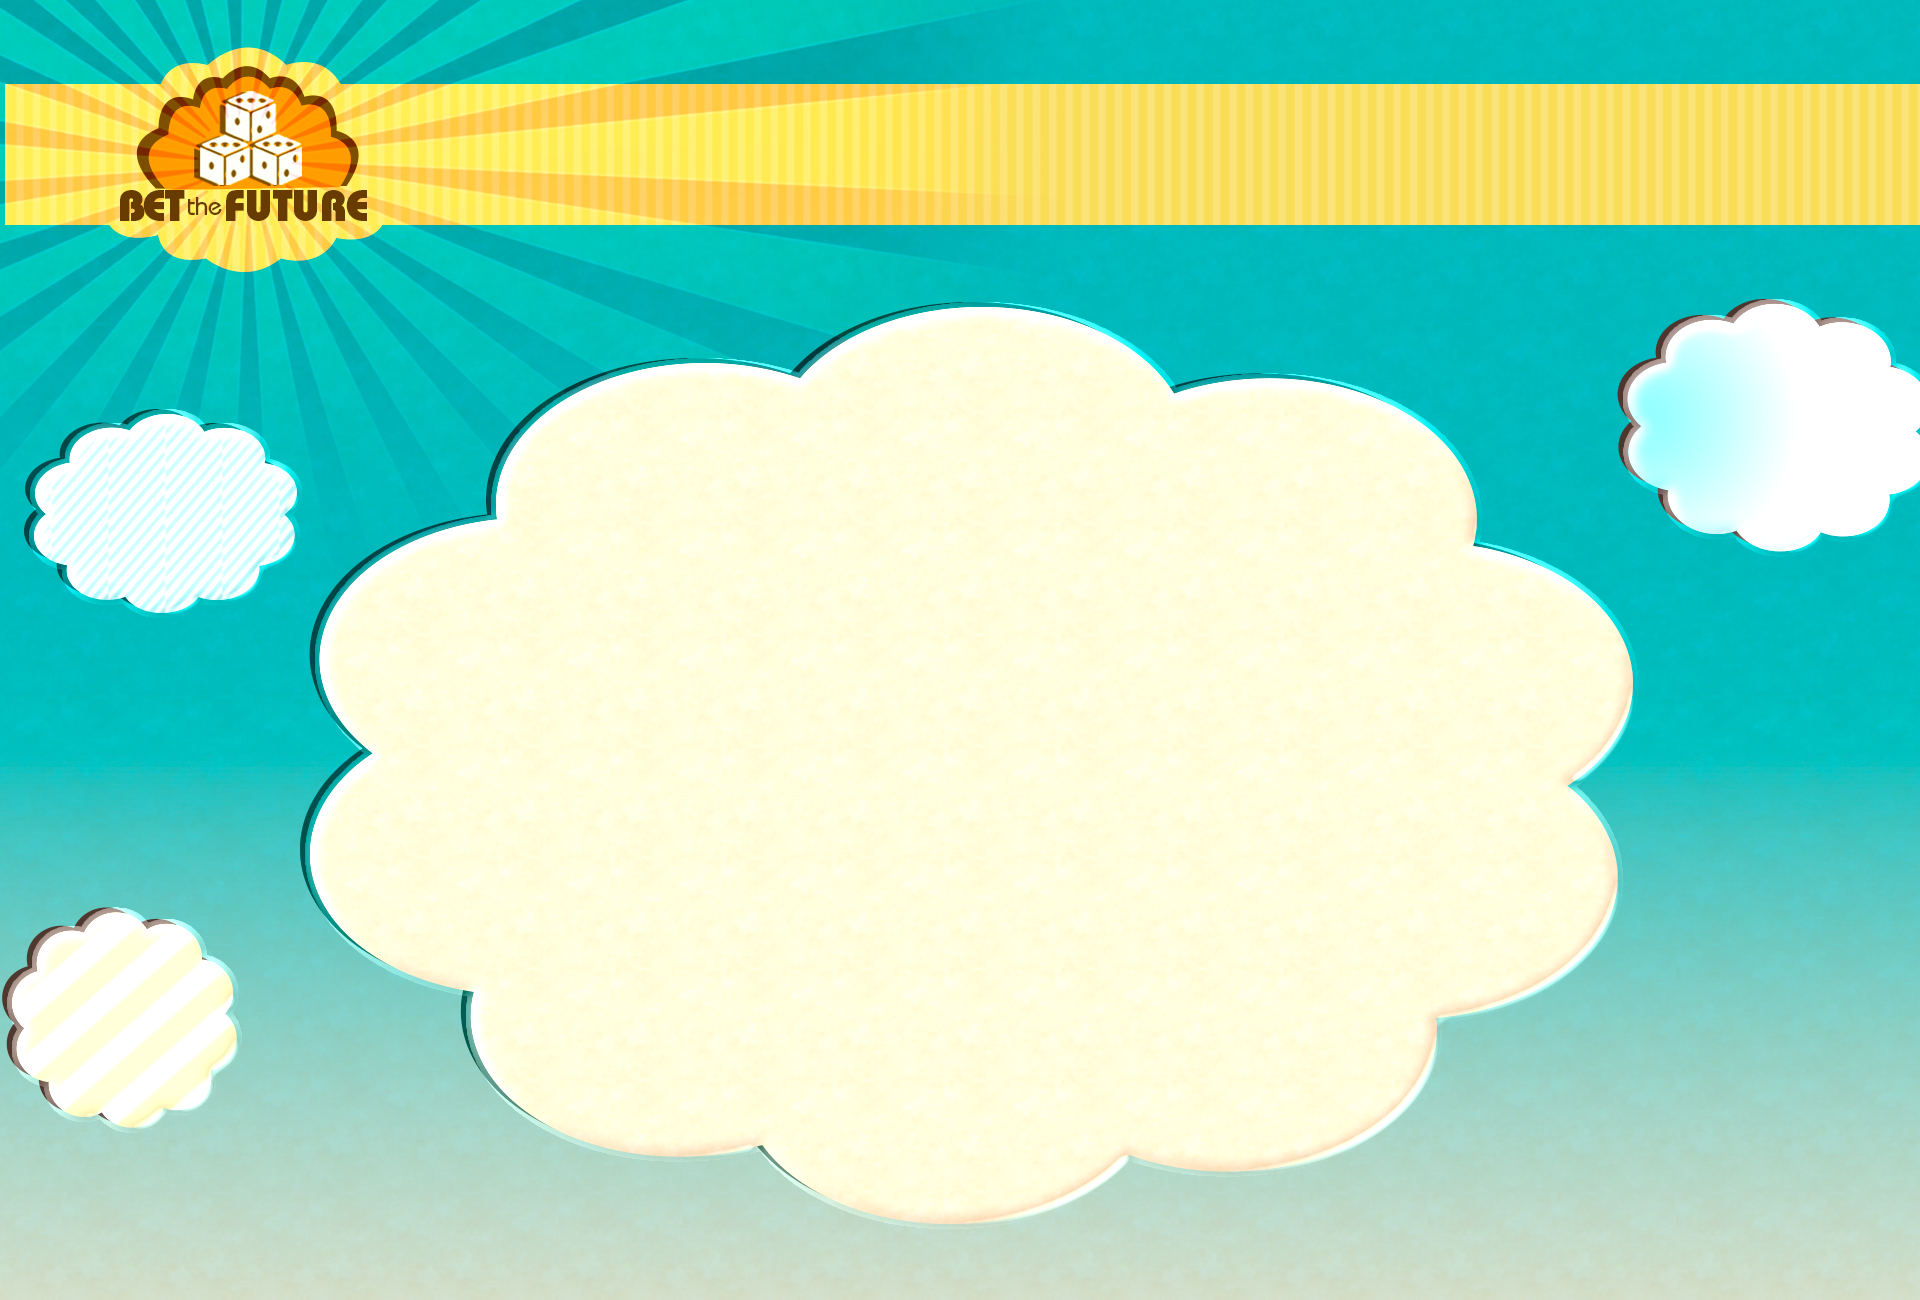
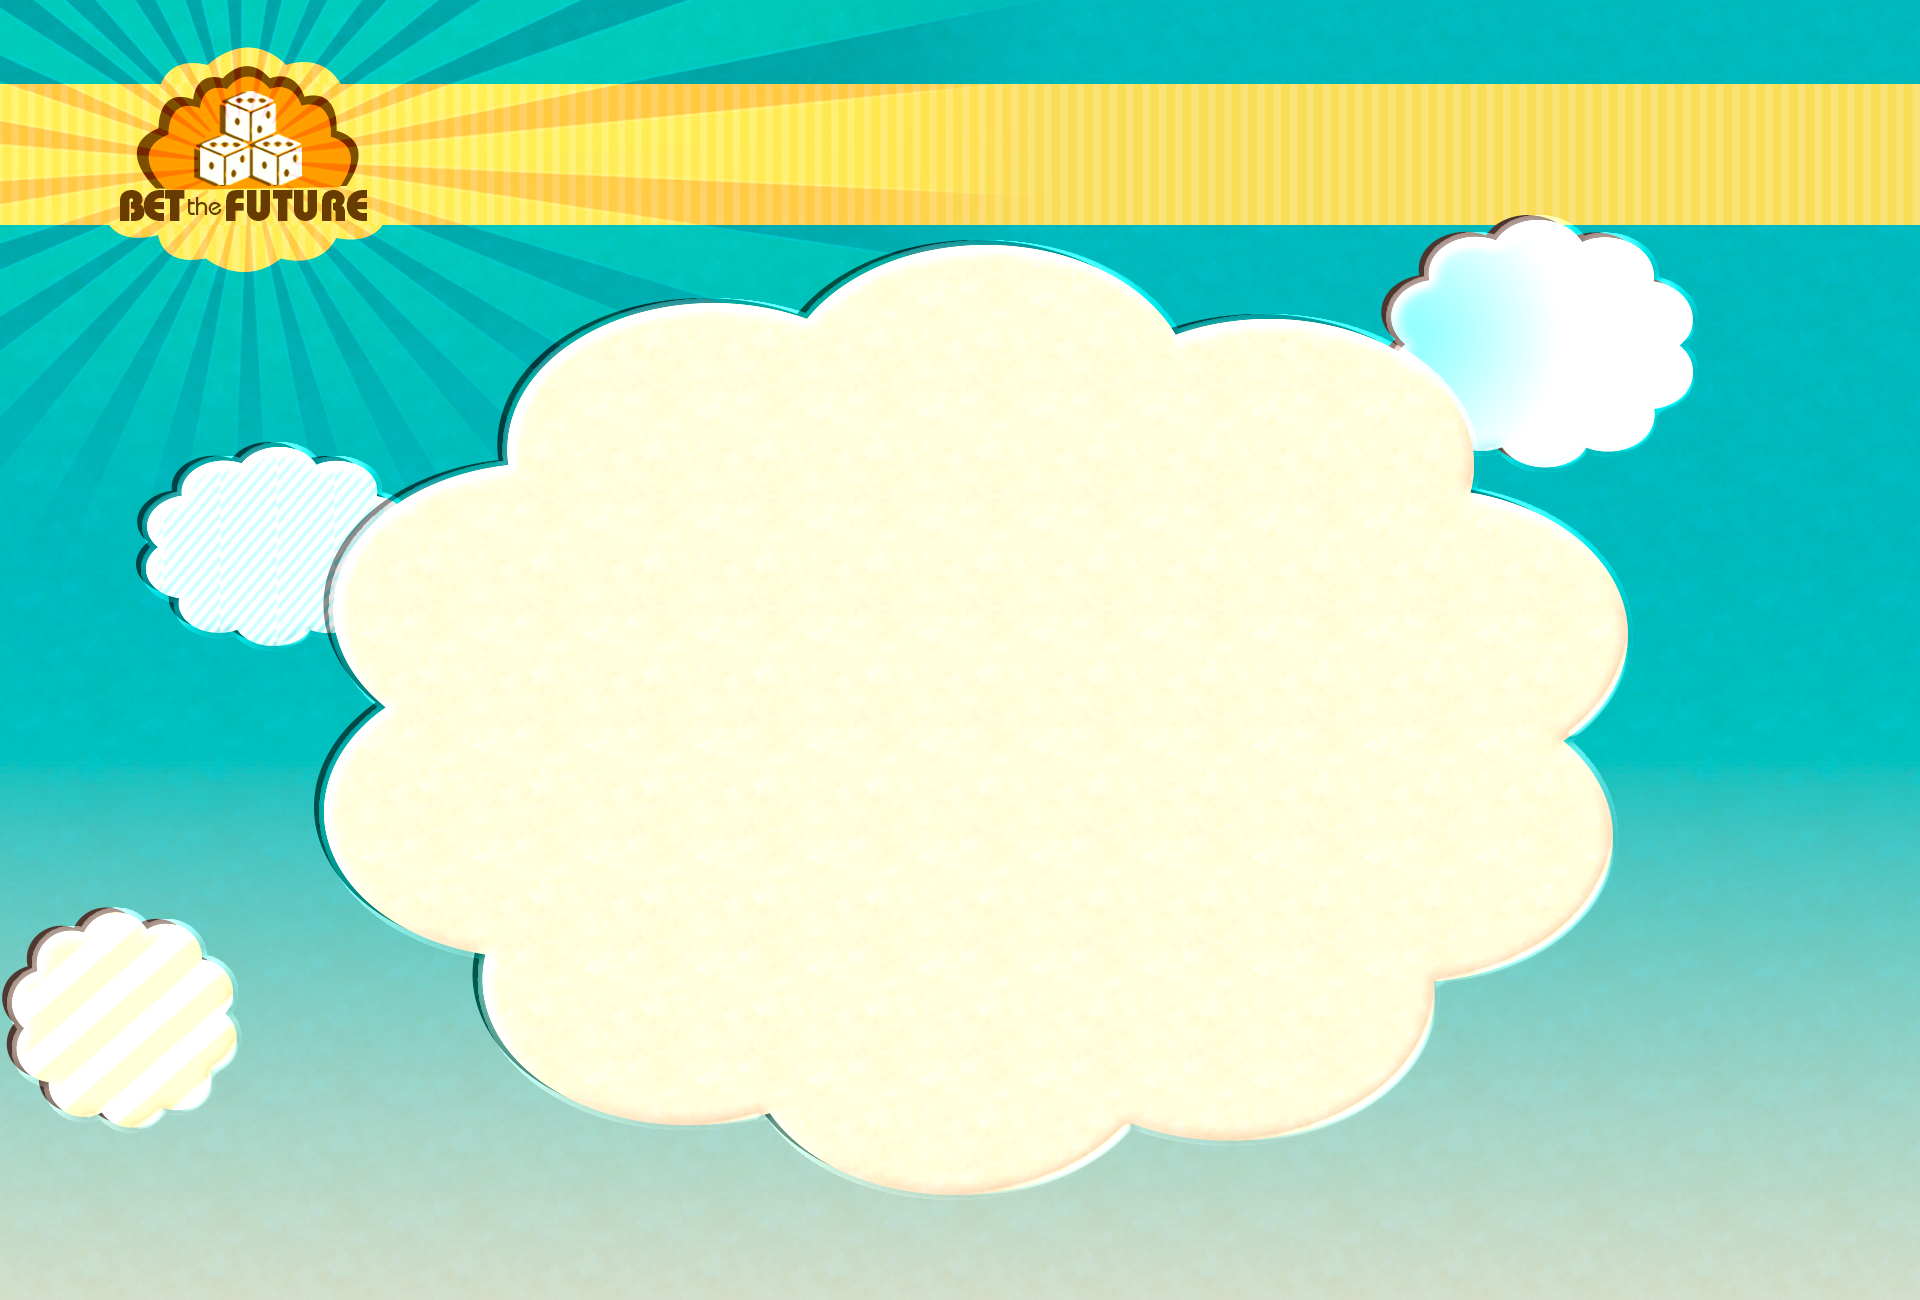
home page

Changed region(s): [[0.0, 0.0615, 1.0, 0.9538]]

diff --git a/public/assets/css/homeStyle.css b/public/assets/css/homeStyle.css
@@ -1,0 +1,59 @@
+html {
+	height: 100%;
+	background: url('home_background.png') no-repeat;
+	background-size: cover;
+}
+body{
+	background-color: transparent;
+}
+
+
+
+.cloudDiv{
+	background-image: url("../images/cloud.png");
+	background-position: -100% 0%;
+	background-size: contain;
+	background-repeat: no-repeat;
+	position: absolute;
+	transform: translateY(-50%);
+	top:60%;
+	width: 800px;
+	height: 600px;
+}
+form{
+	margin-top: 35px;
+
+}
+input{
+	border: 2px solid;
+    border-radius: 15px;
+    padding: 25px;
+}
+.form-control {
+	padding-top:  23px;
+	padding-bottom: 23px;
+	background-color: #ffcb42;
+	color: white;
+	font-size: 18px;
+	border: 2px solid #00bbba;
+	border-radius: 11px;
+
+}
+h1{
+	font-family: 'Fascinate Inline', cursive;
+	color: #683b00;
+	letter-spacing: -1px;
+	text-align: center;
+}
+label{
+	font-size: 17px;
+	color: #00bbba;
+	font-weight: bold;
+}
+.btn-default {
+    color: white;
+    background-color: #00babf;
+    border-color: #04a3a3;
+}
+
+

diff --git a/public/assets/css/landingStyle.css b/public/assets/css/landingStyle.css
@@ -22,10 +22,9 @@ button{
 	color: yellow;
 	font-family: 'Lato', sans-serif;
 }
-h3{
-	font-family: 'Lato', sans-serif;
-	color: yellow;
-/*	margin-top: 300px;*/
+h1{
+	font-family: 'Fascinate Inline', cursive;
+	color: #ffee54;
 }
 img{
 	
@@ -36,10 +35,14 @@ img{
 	background-size: cover;
 	background-repeat: no-repeat;
 	position: absolute;
-	transform: translateY(-10%);
-	top: 50%;
-	margin-top: 30px;
+	transform: translateY(-20%);
+	top: 66%;
+	
 }
+.btn-default {
+    color: white;
+    background-color: #00babf;
+    border-color: #04a3a3;
 
 
 
